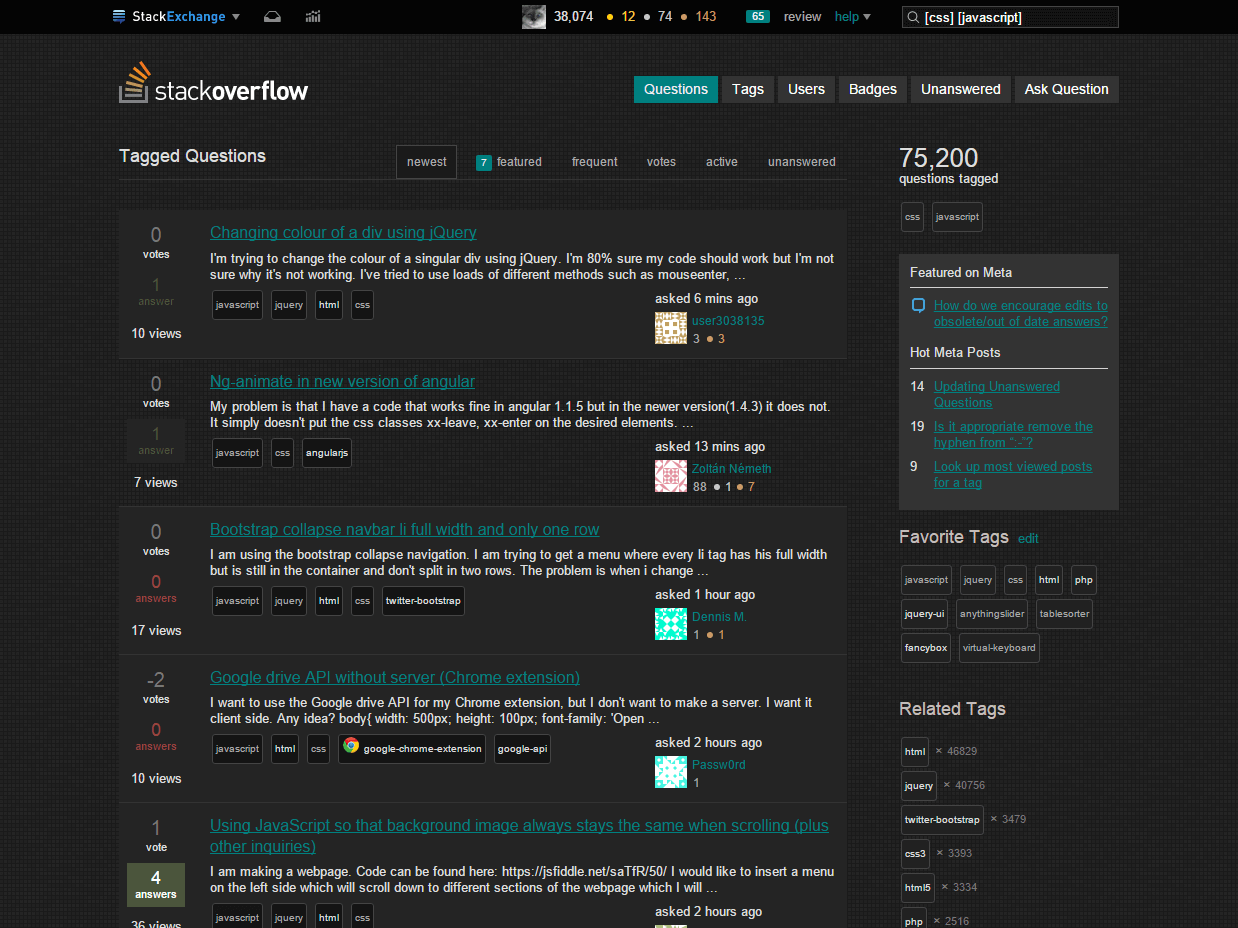
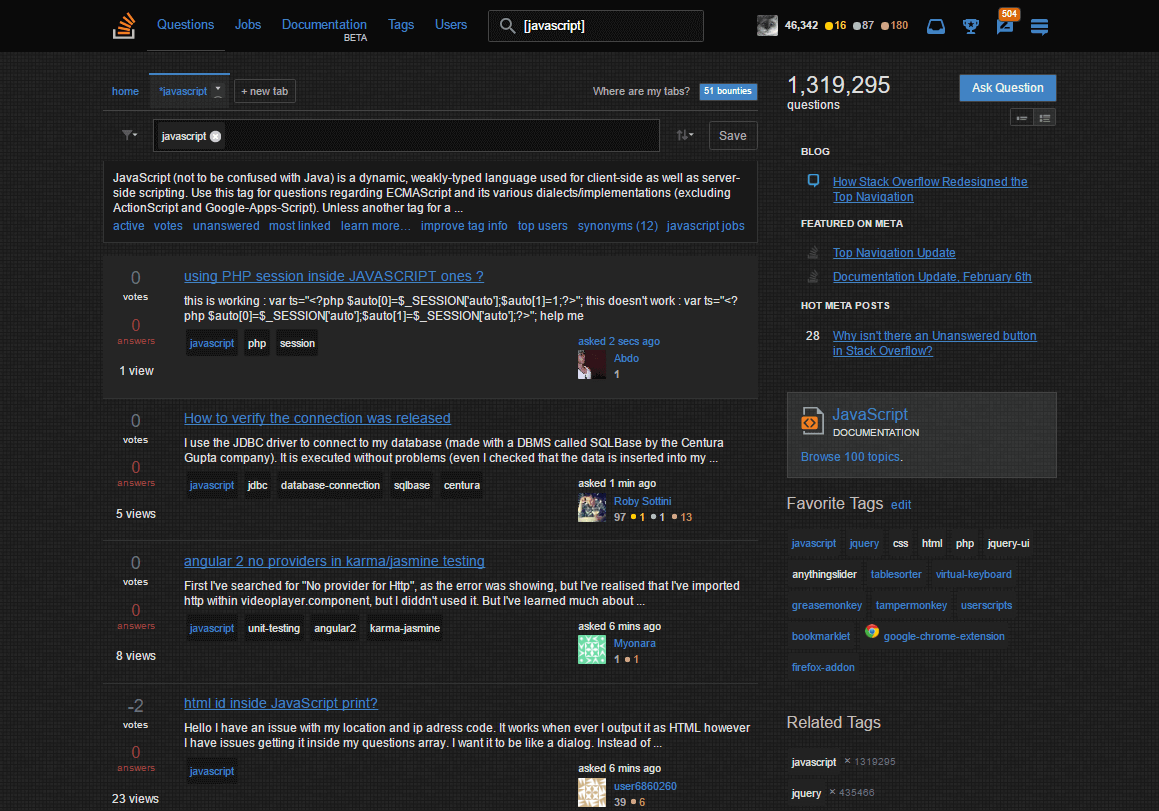
2.9.39

Changed region(s): [[0.0932, 0.2158, 0.9008, 1.0], [0.0, 0.0, 1.0, 0.185], [0.6833, 0.1541, 0.9008, 0.5857]]

diff --git a/stackoverflow-dark.css b/stackoverflow-dark.css
@@ -1,6 +1,6 @@
 @-moz-document regexp("^https?:\\/\\/((chat|meta|es|ja|pt|ru)\\.)*stackoverflow\\.com.*"), domain("serverfault.com"), domain("superuser.com"), domain("stackapps.com"), domain("mathoverflow.net"), domain("askubuntu.com"), regexp("^https?:\\/\\/((?!(www|area51|gaming)).*\\.)?stackexchange.com.*") {
   /***************************************************************
-  Stack Overflow Dark v2.9.38 (2017-02-13)
+  Stack Overflow Dark v2.9.39 (2017-02-14)
   https://github.com/StylishThemes/StackOverflow-Dark
   http://userstyles.org/styles/35345
 

diff --git a/Gruntfile.js b/Gruntfile.js
@@ -10,7 +10,7 @@ module.exports = function (grunt) {
 		config = {
 			'theme'    : 'desert',
 			'color'    : '#4183C4',
-			'visited'  : '#ff32a0',
+			'visited'  : '#4183C4',
 			'font'     : 'Menlo',
 			'image'    : 'url(https://raw.githubusercontent.com/StylishThemes/GitHub-Dark/master/images/backgrounds/bg-tile1.png)',
 			'tiled'    : true,

diff --git a/README.md b/README.md
@@ -1,15 +1,24 @@
-[![][tag-img]][tag-url] [![][star-img]][star-url] [![][fork-img]][fork-url] [![][dev-img]][dev-url]
+<p align="center">
+  <img alt="stackexchange-logo" src="https://rawgit.com/StylishThemes/logos/master/se.dark/sedark.svg" width="508">
+  <br>
+  <a href="https://github.com/StylishThemes/Stackoverflow-Dark/tags">
+    <img src="https://img.shields.io/github/tag/StylishThemes/Stackoverflow-Dark.svg?label=%20tag%20" alt="Tag">
+  </a>
+  <a href="https://github.com/StylishThemes/Stackoverflow-Dark/stargazers">
+    <img src="http://github-svg-buttons.herokuapp.com/star.svg?user=StylishThemes&repo=Stackoverflow-Dark&style=flat&background=007ec6" alt="Star">
+  </a>
+  <a href="http://github.com/StylishThemes/Stackoverflow-Dark/fork">
+    <img src="http://github-svg-buttons.herokuapp.com/fork.svg?user=StylishThemes&repo=Stackoverflow-Dark&style=flat&background=007ec6" alt="Fork">
+  </a>
+  <a href="https://david-dm.org/StylishThemes/Stackoverflow-Dark?type=dev">
+    <img src="https://img.shields.io/david/dev/StylishThemes/Stackoverflow-Dark.svg?label=%20devDependencies%20" alt="devDependencies">
+  </a>
+  <a href="https://gitter.im/StylishThemes/Lobby">
+    <img src="https://img.shields.io/gitter/room/StylishThemes/Stackoverflow-Dark.js.svg?maxAge=2592000" alt="Gitter">
+  </a>
+</p>
 
-[tag-url]: https://github.com/StylishThemes/Stackoverflow-Dark/tags
-[tag-img]: https://img.shields.io/github/tag/StylishThemes/Stackoverflow-Dark.svg
-[star-url]: https://github.com/StylishThemes/Stackoverflow-Dark/stargazers
-[star-img]: http://github-svg-buttons.herokuapp.com/star.svg?user=StylishThemes&repo=Stackoverflow-Dark&style=flat&background=007ec6
-[fork-url]: https://github.com/StylishThemes/Stackoverflow-Dark/fork
-[fork-img]: http://github-svg-buttons.herokuapp.com/fork.svg?user=StylishThemes&repo=Stackoverflow-Dark&style=flat&background=007ec6
-[dev-url]: https://david-dm.org/StylishThemes/Stackoverflow-Dark?type=dev
-[dev-img]: https://david-dm.org/StylishThemes/Stackoverflow-Dark/dev-status.svg
-
-# Stack Overflow Dark theme for Stylish
+- This dark theme applied to Stack Overflow and almost all of Stack Exchange sites.
 - Install from [userstyles.org](http://userstyles.org/styles/35345) (with customization options) or [manually](https://raw.githubusercontent.com/StylishThemes/Stackoverflow-Dark/master/stackoverflow-dark.css).
 - Stylus is available for [Chrome](https://chrome.google.com/webstore/detail/stylus/clngdbkpkpeebahjckkjfobafhncgmne).
 - Stylish is available for [Firefox](https://addons.mozilla.org/en-US/firefox/addon/2108/), [Chrome](https://chrome.google.com/extensions/detail/fjnbnpbmkenffdnngjfgmeleoegfcffe), [Opera](https://addons.opera.com/en/extensions/details/stylish/), [Safari](http://sobolev.us/stylish/) and [Firefox Mobile](https://addons.mozilla.org/en-US/firefox/addon/2108/).
@@ -32,6 +41,12 @@
 
 See the [full changelog](https://github.com/StylishThemes/Stackoverflow-Dark/wiki).
 
+### Version 2.9.39 (2/14/2017)
+
+* SO:
+  * Add solid background color to header. Fixes [issue #43](https://github.com/StylishThemes/StackOverflow-Dark/issues/43).
+  * fix bounty tab & question button style
+
 ### Version 2.9.38 (2/13/2017)
 
 * Global: Fix messages box.
@@ -40,7 +55,3 @@ See the [full changelog](https://github.com/StylishThemes/Stackoverflow-Dark/wik
 
 * Documentation: Darken proposed changes
 * Meta: Add AUTHORS file
-
-### Version 2.9.36 (2/2/2017)
-
-* Use https urls. Fixes [issue #41](https://github.com/StylishThemes/StackOverflow-Dark/issues/41).
